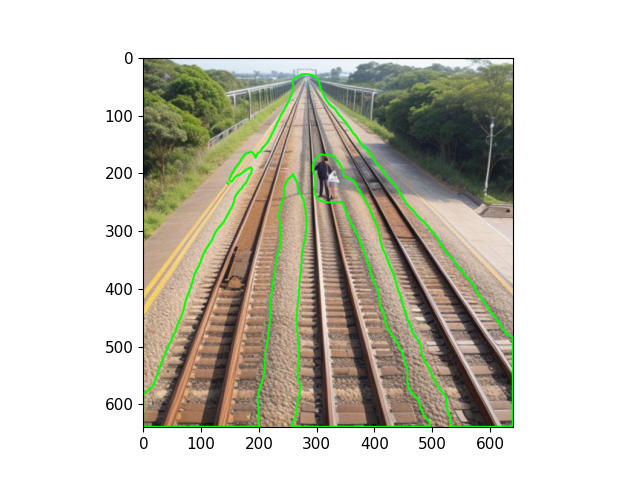
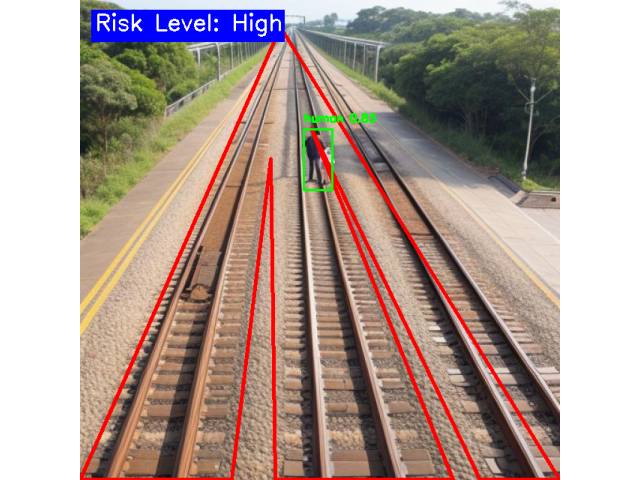
add find obstacle"

diff --git a/semantic/find_obstacle.py b/semantic/find_obstacle.py
@@ -5,6 +5,8 @@ import sys
 import cv2
 from shapely.geometry import Polygon, box
 from shapely.affinity import translate
+from shapely.ops import nearest_points
+
 import matplotlib.pyplot as plt
 from pathlib import Path
 import numpy as np
@@ -38,42 +40,22 @@ from utils.general import (
 )
 
 
-def extend_track_region(track_polygon, extension_length):
-    minx, miny, maxx, maxy = track_polygon.bounds
-    extended_region = track_polygon.union(
-        translate(track_polygon, xoff=-extension_length) |
-        translate(track_polygon, xoff=extension_length)
-    )
-    return extended_region
-
-def calculate_danger_level(detections, extended_track_polygon, low_threshold, high_threshold):
+risk_level_dict = {0:'Safe', 1:' Low', 2:' Medium', 3: 'High'}
+def relationship_between_polygon_and_box(polygon, detections):
+    poly = Polygon(polygon)
     danger_levels = []
     for detection in detections:
-        det_dict = {}
-        print(detection[0].size())
-        det_dict['bbox'] = detection[0, :4].cpu().numpy()
-        det_dict['class'] = detection[0, 5].cpu().numpy()
-        print(det_dict['class'])
-
         x1, y1, x2, y2 = detection[0, :4]
-        object_box = box(x1, y1, x2, y2)
-        if extended_track_polygon.intersects(object_box):
-            intersection_area = extended_track_polygon.intersection(object_box).area
-            object_area = object_box.area
-            overlap_ratio = intersection_area / object_area
-
-            if overlap_ratio > high_threshold:
-                danger_level = "High"
-            elif overlap_ratio > low_threshold:
-                danger_level = "Medium"
-            else:
-                danger_level = "Low"
-        else:
-            danger_level = "Low"
-        danger_levels.append({
-            "object": det_dict,
-            "danger_level": danger_level
-        })
+        rect = box(x1, y1, x2, y2)
+        if poly.intersects(rect):
+            danger_level = 3
+            return danger_level
+        else: 
+            nearest_points_poly, nearest_points_rect = nearest_points(poly, rect)
+            distance = nearest_points_poly.distance(nearest_points_rect)
+            print(distance)
+            # TODO  根据距离， 判断 危险等级 .... 
+            danger_level = 1
     return danger_levels
 
 
@@ -168,105 +150,56 @@ def run(
         pred_mask = torch.argmax(pred_mask, dim=0) # torch.Size([640, 640]) 返回指定维度最大值的序号, (c,h,w) -> (h,w)
         segmentation_result = pred_mask.clone().detach().cpu().numpy() # 0 1 2 # (1200, 5760)
         segmentation_result = segmentation_result.astype(np.uint8)
-        # _, segmentation_result = cv2.threshold(segmentation_result, 0, 255, cv2.THRESH_BINARY)
-        
-        # ===============================================================
-        low_risk_th  = 0.1
-        high_risk_th = 0.5
-        extension_length = 50  
-
         
         # Morphological Operations
-        kernel = np.ones((5, 5), np.uint8)
+        kernel = np.ones((10, 10), np.uint8)
         closed_mask = cv2.morphologyEx(segmentation_result, cv2.MORPH_CLOSE, kernel)
         opened_mask = cv2.morphologyEx(closed_mask, cv2.MORPH_OPEN, kernel) # remove noise
-        contours, _ = cv2.findContours(segmentation_result, cv2.RETR_EXTERNAL, cv2.CHAIN_APPROX_SIMPLE)
-        im_rgb = torch.squeeze(im, dim=0).permute(1,2,0).cpu().numpy().copy()
-        cv2.drawContours(im_rgb, contours, -1, (0, 255, 0), 2)
+        contours, _ = cv2.findContours(opened_mask, cv2.RETR_EXTERNAL, cv2.CHAIN_APPROX_SIMPLE)
+        im_vis = torch.squeeze(im, dim=0).permute(1,2,0).cpu().numpy().copy()
 
-        if contours:
-            track_polygon = Polygon([pt[0] for pt in contours[0]])
+        risk_level = 0            
+        if len(contours) > 0 and len(pred) > 0:
+            for contour in contours:
+                epsilon = 0.02 * cv2.arcLength(contour, True)
+                approx = cv2.approxPolyDP(contour, epsilon, True)
+                cv2.drawContours(im_vis, [approx], 0, (255, 0, 0), 3)
+
+                risk_level_object = relationship_between_polygon_and_box(approx.reshape(-1, 2), pred)
+                if risk_level_object == 3:
+                    risk_level = risk_level_object
+                    break
+                else:
+                    risk_level = max(risk_level, risk_level_object)
+            # 
+            for detection in pred:
+                c = int(detection[0, 5])  # integer class
+                conf = float(detection[0, 4])
+                label = f"{names[c]} {conf:.2f}"
+                x1, y1, x2, y2 = detection[0, :4]
+                cv2.rectangle(im_vis, (int(x1), int(y1)), (int(x2), int(y2)), (0, 255, 0), 2)
+                cv2.putText(im_vis, label, (int(x1), int(y1) - 10), cv2.FONT_HERSHEY_SIMPLEX, 0.5, (0, 255, 0), 2)
         else:
-            track_polygon = Polygon()
+            risk_level = 0
         
-        # track_polygon = extend_track_region(track_polygon, extension_length)
-        danger_levels = calculate_danger_level(pred, track_polygon, low_risk_th, high_risk_th)
+        info = "Risk Level: " + risk_level_dict[risk_level]
+        font, font_scale, font_thickness, xx, yy = cv2.FONT_HERSHEY_SIMPLEX, 1, 2, 20, 40
+        (text_w, text_h), _ = cv2.getTextSize(info, font, font_scale, font_thickness)
+        cv2.rectangle(im_vis, (xx-5, yy-text_h-5), (xx+text_w, yy+15), (0, 0, 255), -1)
+        cv2.putText(im_vis, info, (xx, yy), font, font_scale, (255, 255, 255), font_thickness)
+        print("Risk Level: ", risk_level_dict[risk_level])
 
-        for result in danger_levels:
-            obj = result["object"]
-            level = result["danger_level"]
-            print(f"Object {obj['class']} at {obj['bbox']} has danger level: {level}")
-        
         plt.figure()
-        plt.subplot(111)
-        plt.imshow(im_rgb)
+        plt.imshow(im_vis)
+        plt.subplots_adjust(left=0, right=1, top=1, bottom=0)
+        plt.margins(0, 0)
+        plt.axis('off')
         plt.savefig('tmp/t.png')
         plt.show()
-        
-        # # Process predictions
-        # for i, det in enumerate(pred):  # per image
-        #     seen += 1
-        #     if webcam:  # batch_size >= 1
-        #         p, im0, frame = path[i], im0s[i].copy(), dataset.count
-        #         s += f"{i}: "
-        #     else:
-        #         p, im0, frame = path, im0s.copy(), getattr(dataset, "frame", 0)
+    
 
-        #     p = Path(p)  # to Path
-        #     save_path = str(save_dir / p.name)  # im.jpg
-        #     txt_path = str(save_dir / "labels" / p.stem) + ("" if dataset.mode == "image" else f"_{frame}")  # im.txt
-        #     s += "%gx%g " % im.shape[2:]  # print string
-        #     gn = torch.tensor(im0.shape)[[1, 0, 1, 0]]  # normalization gain whwh
-        #     imc = im0.copy() if save_crop else im0  # for save_crop
-        #     annotator = Annotator(im0, line_width=line_thickness, example=str(names))
-
-        #     # Mask plotting  ----------------------------------------------------------------------------
-        #     color_mask = [[0,0,255],[0,255,0]]
-        #     pred_mask = F.interpolate(pred_mask[None], size = im0.shape[:2], mode = 'nearest')
-        #     pred_mask = torch.squeeze(pred_mask) # 1xcxhxw ->  cxhxw
-        #     seg_nc, h, w = pred_mask.shape
-        #     pred_mask = torch.argmax(pred_mask, dim=0) # torch.Size([640, 640]) 返回指定维度最大值的序号, (c,h,w) -> (h,w)
-        #     image_mask = pred_mask.clone().detach().cpu().numpy() # 0 1 2 # (1200, 5760)
-
-        #     with contextlib.suppress(Exception):
-        #         im0[image_mask==1] = im0[image_mask==1] * 0.4 + np.array(color_mask[0]) * 0.6  # lane
-        #         im0[image_mask==2] = im0[image_mask==2] * 0.4 + np.array(color_mask[1]) * 0.6  # drivable
-        #     im0 = np.ascontiguousarray(im0)
-
-        #     if len(det):
-        #         # Rescale boxes from img_size to im0 size
-        #         det[:, :4] = scale_boxes(im.shape[2:], det[:, :4], im0.shape).round()
-
-        #         # Print results
-        #         for c in det[:, 5].unique():
-        #             n = (det[:, 5] == c).sum()  # detections per class
-        #             s += f"{n} {names[int(c)]}{'s' * (n > 1)}, "  # add to string
-
-        #         # Write results
-        #         for *xyxy, conf, cls in reversed(det):
-        #             c = int(cls)  # integer class
-        #             label = names[c] if hide_conf else f"{names[c]}"
-        #             confidence = float(conf)
-        #             confidence_str = f"{confidence:.2f}"
-        #             if save_img or save_crop or view_img:  # Add bbox to image
-        #                 c = int(cls)  # integer class
-        #                 label = None if hide_labels else (names[c] if hide_conf else f"{names[c]} {conf:.2f}")
-        #                 annotator.box_label(xyxy, label, color=colors(c, True))
-        #             if save_crop:
-        #                 save_one_box(xyxy, imc, file=save_dir / "crops" / names[c] / f"{p.stem}.jpg", BGR=True)
-
-        #     # Stream results
-        #     im0 = annotator.result()
-        
-        # plt.figure()
-        # plt.subplot(111)
-        # plt.imshow(im0)
-        # plt.savefig('tmp/t.png')
-        # plt.show()
-
-# TODO 找包围框，有问题，直接用Polygon可能出现的问题，解释出来，因为 障碍物所在区域，肯定Polygon不包含.. 
-# TODO morphologyEx  kernel 设置的大一点 
-# TODO 绘制出， bbox， segmentation mask， 写出分类等级 ... 
+# TODO 根据距离，写出分类等级 ... 
+# 根据 GT, 计算分类精度 ...
 # DDL 6.1 之前完成
 
 
@@ -277,7 +210,11 @@ def parse_opt():
     """
     parser = argparse.ArgumentParser()
     parser.add_argument("--weights", nargs="+", type=str, default="runs/train-seg/obstacle/exp/weights/best.pt", help="model path(s)")
-    parser.add_argument("--source", type=str, default= "/media/ubuntu/zoro/ubuntu/data/railway_obstacle_detection/ObstacleDetection/images/val/a0.jpg", help="file/dir/URL/glob/screen/0(webcam)")
+    parser.add_argument("--source", type=str, default= "/media/ubuntu/zoro/ubuntu/data/\
+railway_obstacle_detection/ObstacleDetection/images/val/a0.jpg",  help="file/dir/URL/glob/screen/0(webcam)")
+#     parser.add_argument("--source", type=str, default= "/media/ubuntu/zoro/ubuntu/data/\
+# railway_obstacle_detection/rs19/images/val/a0.jpg",  help="file/dir/URL/glob/screen/0(webcam)")
+
     parser.add_argument("--data", type=str, default="data/obstacle.yaml", help="dataset.yaml path")
     parser.add_argument("--imgsz", "--img", "--img-size", nargs="+", type=int, default=[640], help="inference size h,w")
     parser.add_argument("--conf-thres", type=float, default=0.25, help="confidence threshold")
